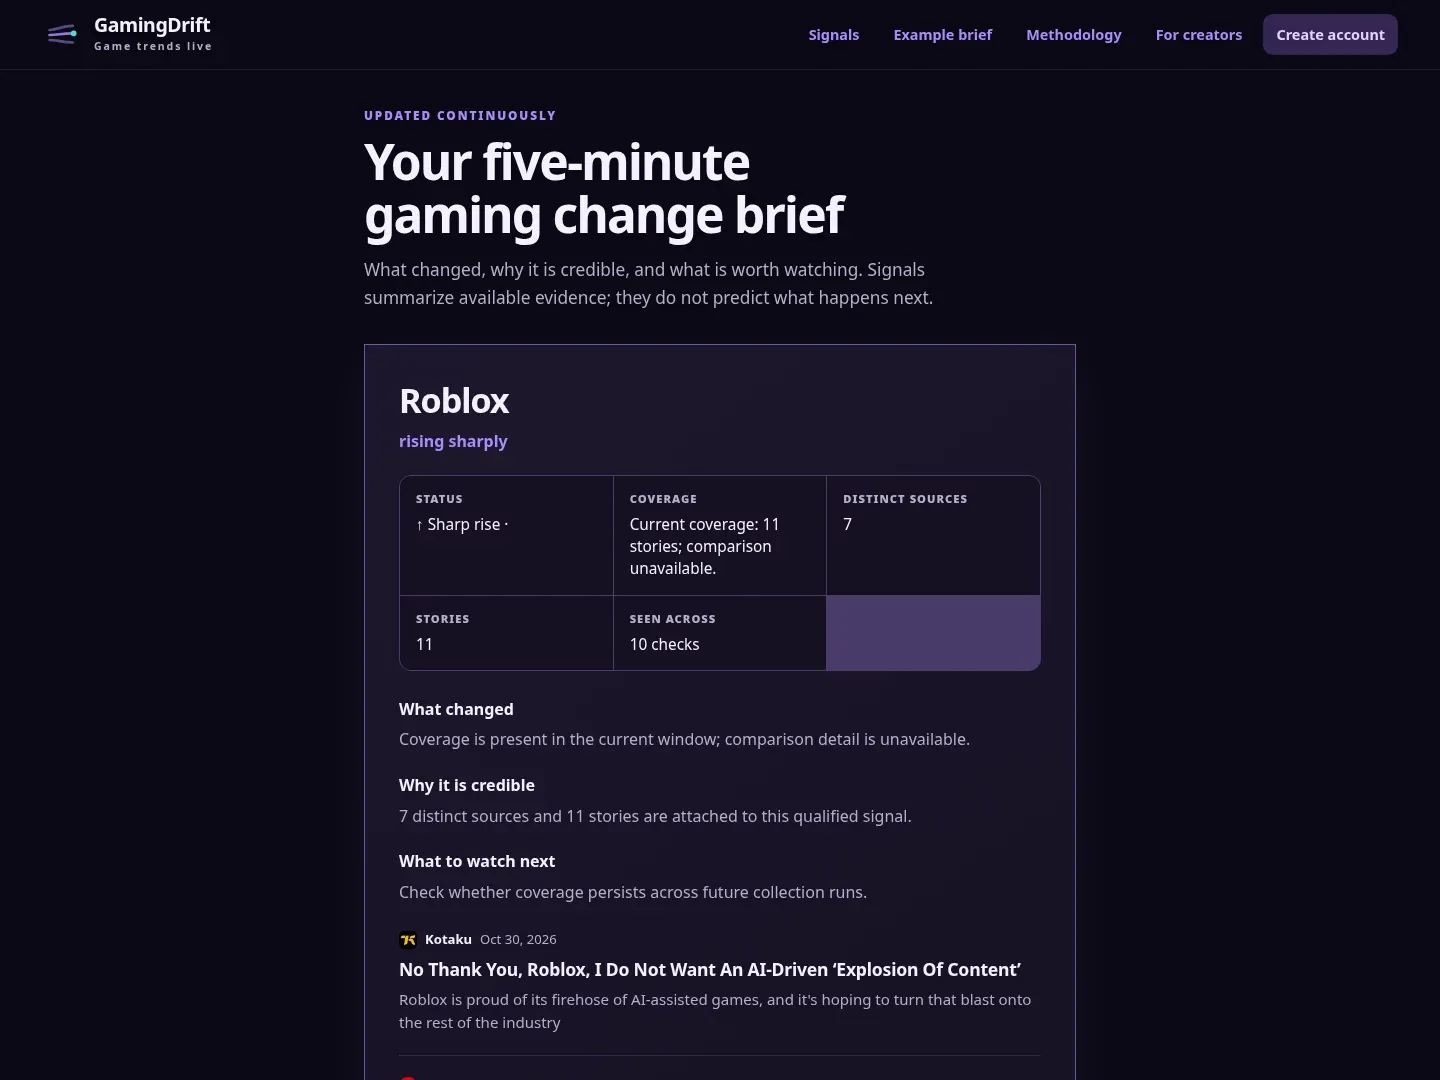
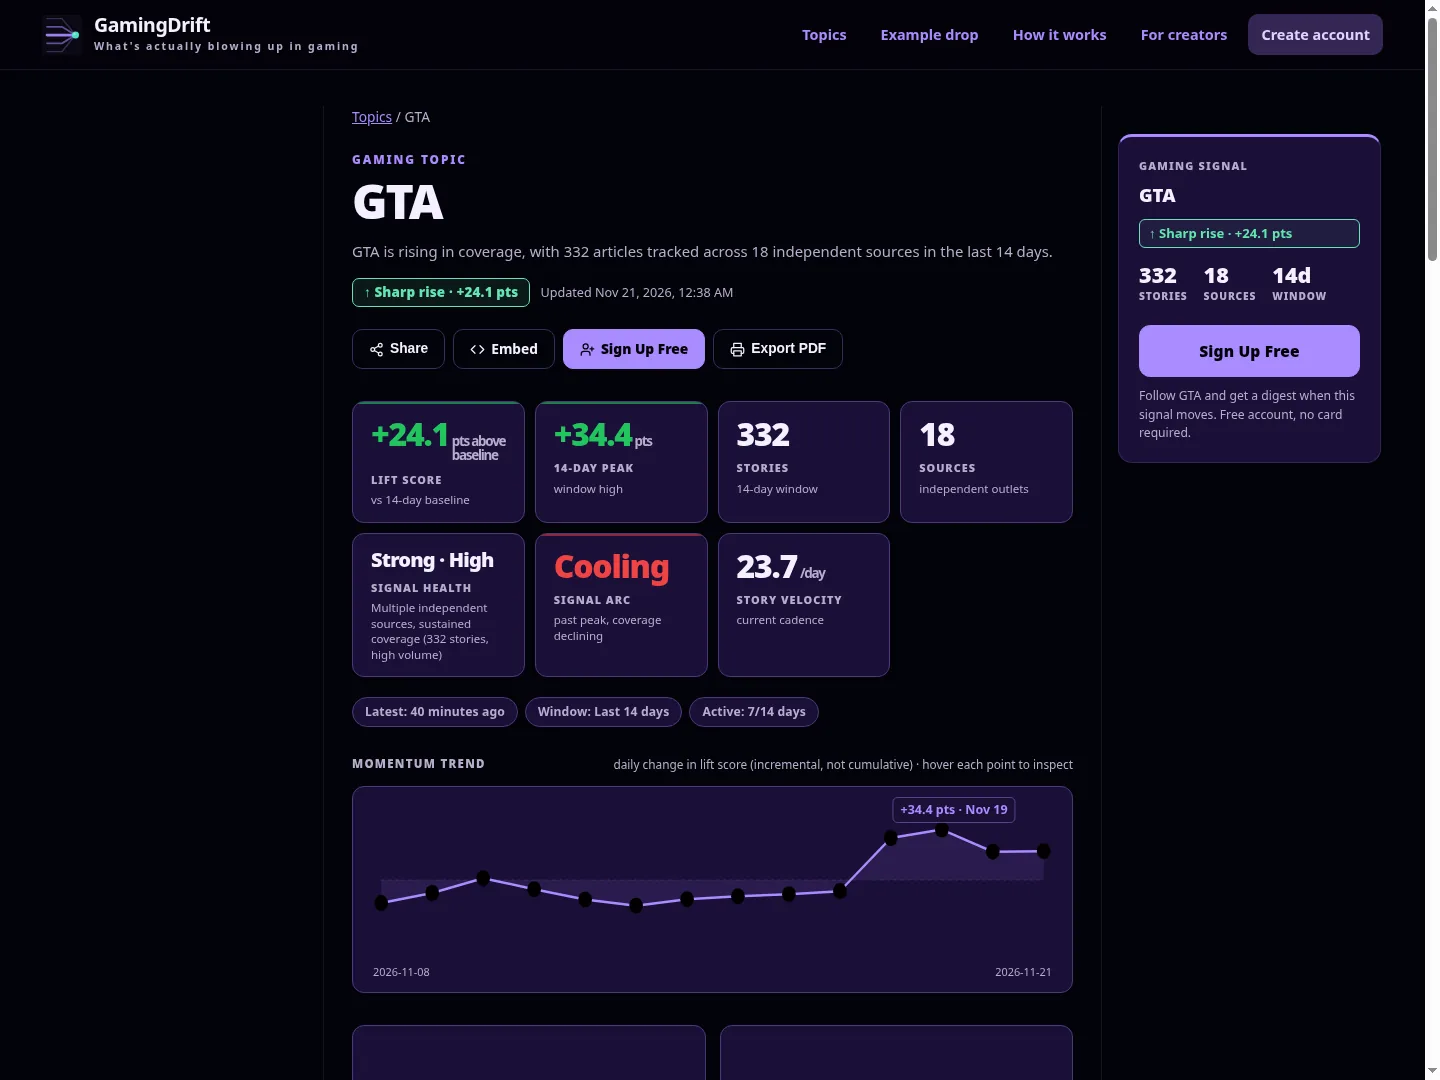
content: refresh TechDrift case study to current product (#2)
- Facts verified against code on 2026-11-20: 36/32/74 sources (was 23/25/60), 1,404 tests with 1,397 passing and 7 skipped (was 922).
- New captures of the redesigned brief pages for all three brands.
- New 'Briefs and search' section: brief pages, embeds, PDF export, audience pages, Search Console findings and fixes.
- Reliability: API review fixes; CI isolated from live social accounts. Operations: social publishing safeguards.
- Public naming: replace remaining visible 'SignalDrift' text with TechDrift (essay lede, ideas index, ai index alt text).

diff --git a/src/lib/articles.js b/src/lib/articles.js
@@ -38,7 +38,7 @@ export const articles = {
     "description": "TechDrift and its sister products GamingDrift and SportsDrift are evidence-first signal products with inspectable public signals, private-by-default accounts, brand-isolated operations, and production release discipline.",
     "image": "/assets/og/og-default.jpg",
     "published": "2026-10-16",
-    "modified": "2026-10-26"
+    "modified": "2026-11-20"
   },
   "/experience/content-delivery-service/": {
     "type": "TechArticle",
